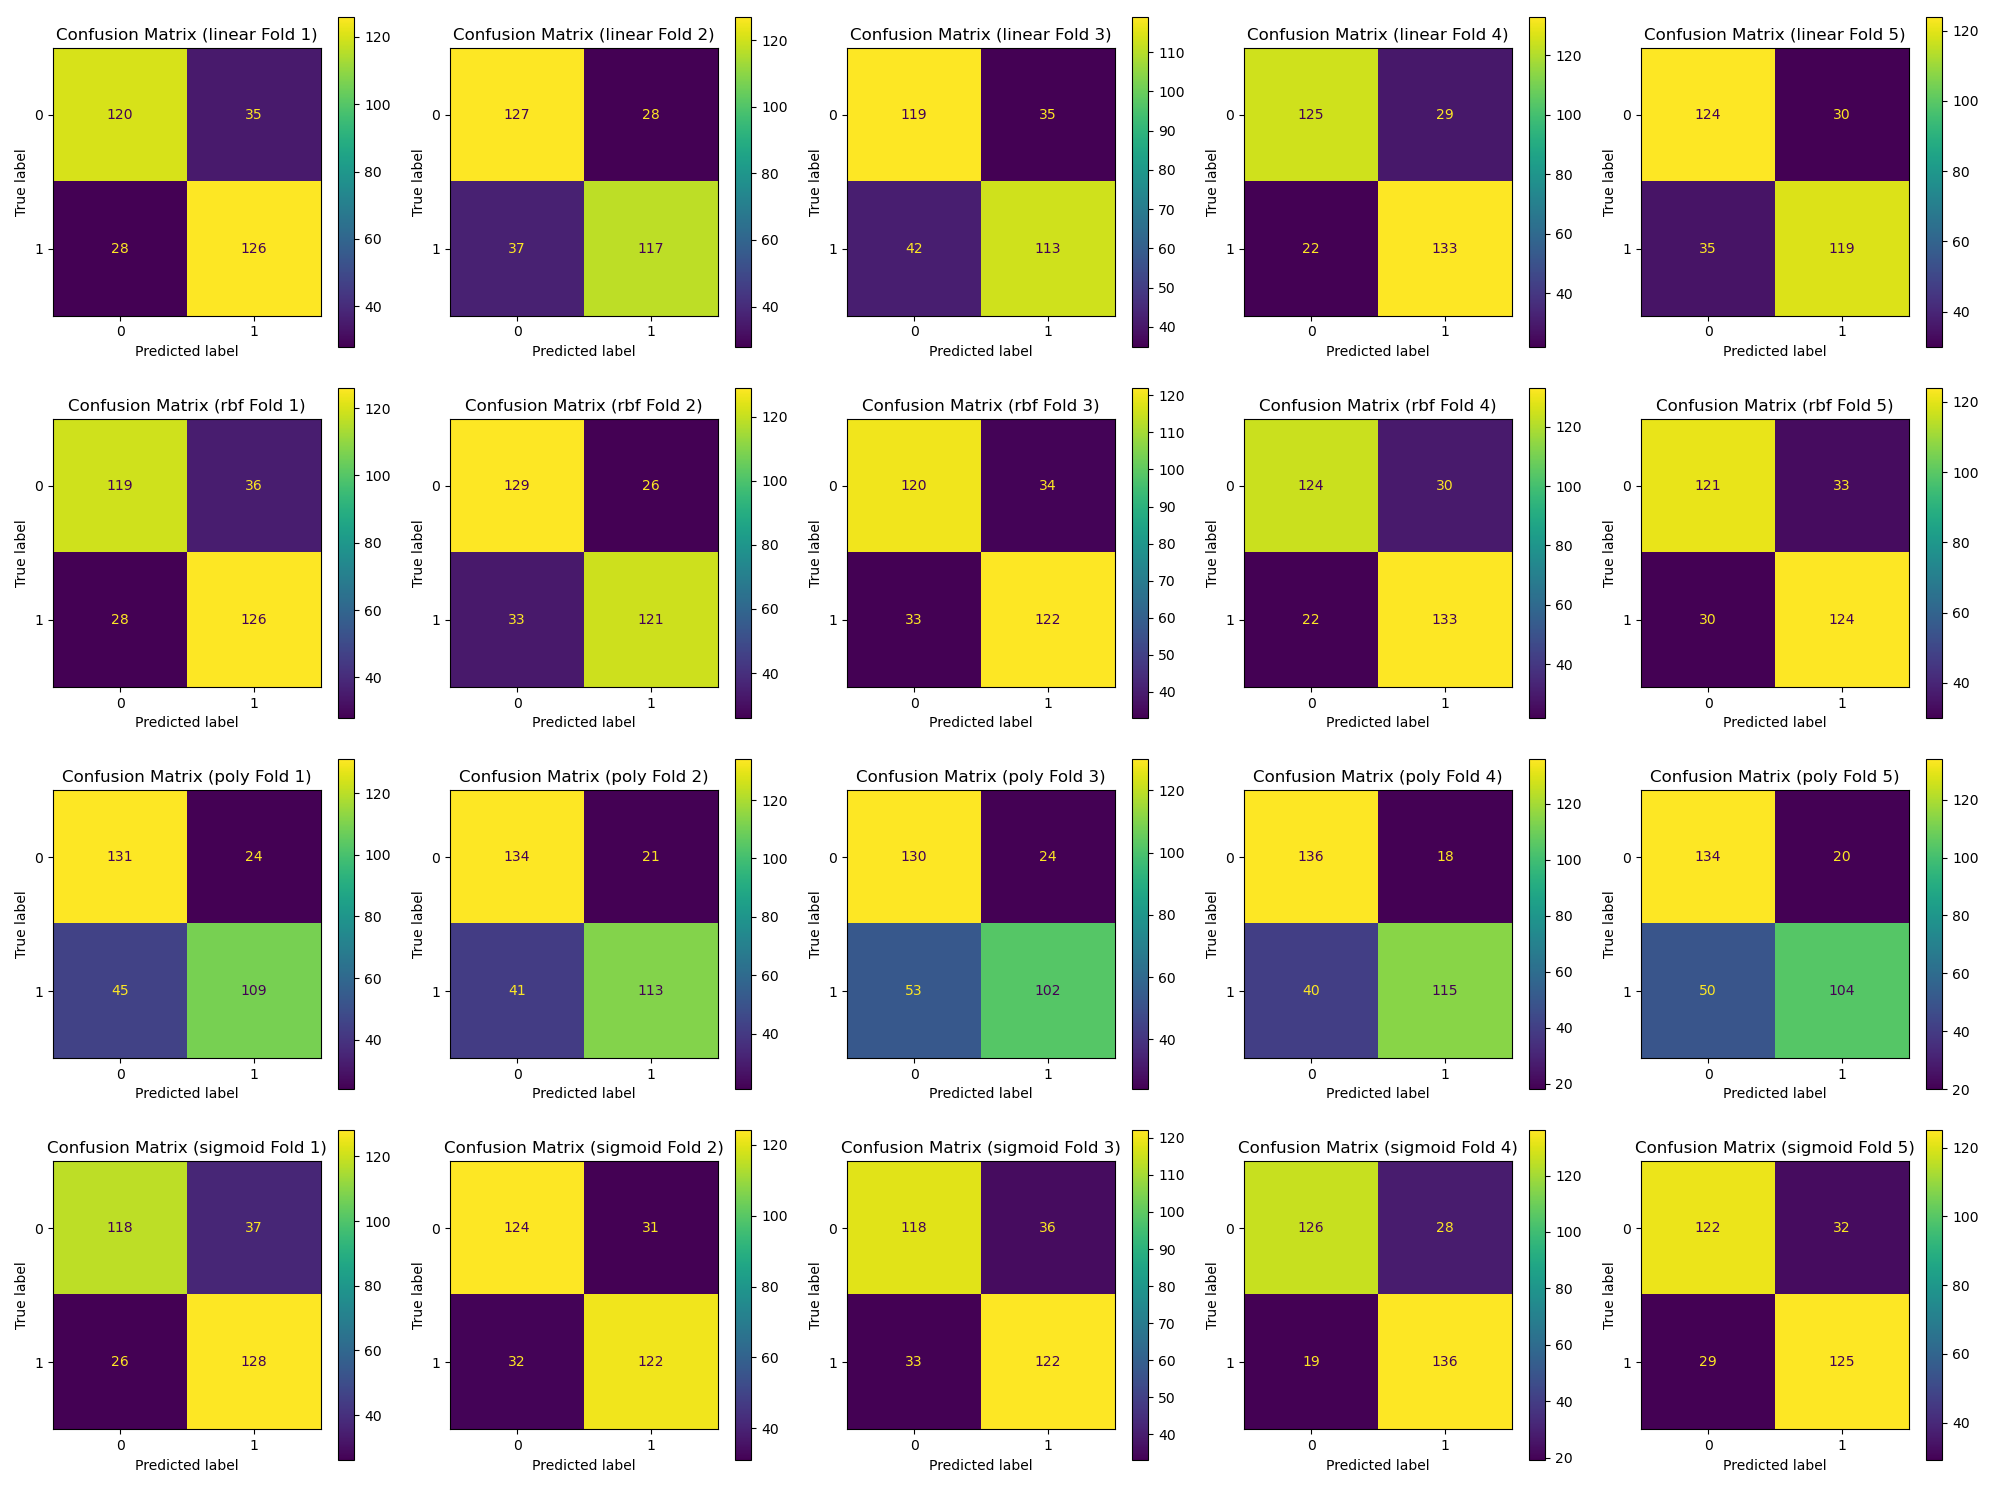
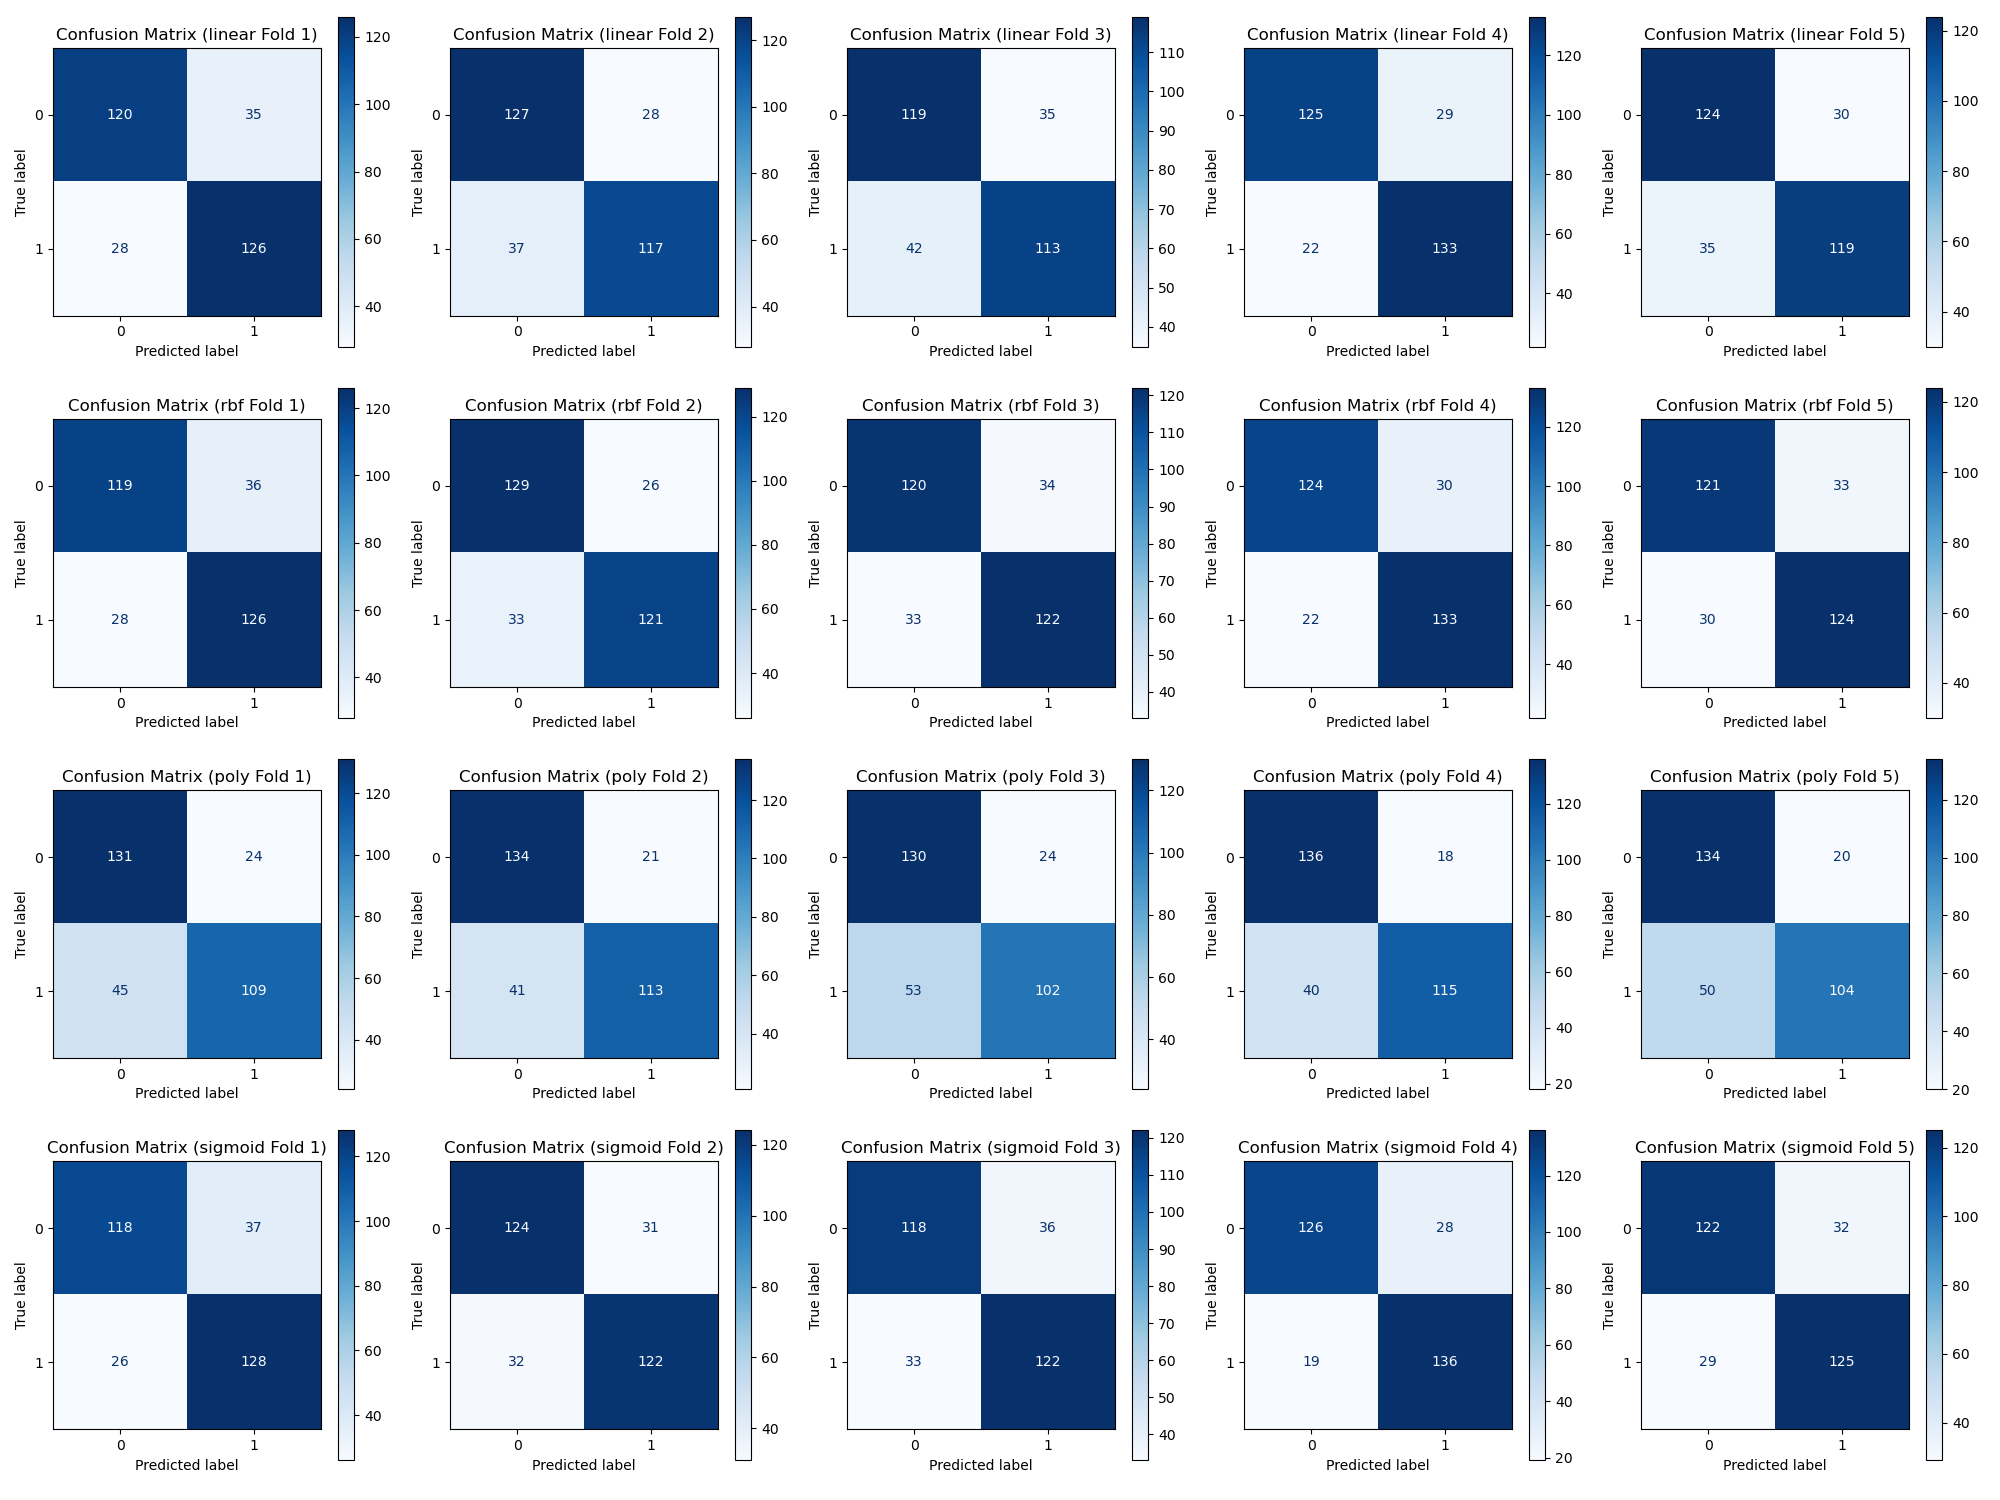
svm

diff --git a/SVM-Vic.py b/SVM-Vic.py
@@ -29,7 +29,9 @@ def eval(y, X, clf, ax_roc, ax_cm, legend_entry='my legendEntry'):
     ax_roc.legend(loc='best')
 
     # Plot confusion matrix
-    ConfusionMatrixDisplay.from_predictions(y, y_pred, ax=ax_cm)
+    cm = confusion_matrix(y, y_pred)
+    disp = ConfusionMatrixDisplay(confusion_matrix=cm)
+    disp.plot(ax=ax_cm, cmap='Blues')
     ax_cm.set_title(f'Confusion Matrix ({legend_entry})')
 
     return [accuracy, precision, recall, specificity, f1, roc_auc]
@@ -126,10 +128,20 @@ def svm_analysis(data, random_state=42):
     fig_cm.savefig('figures/confusion_matrices_svm.png')
     plt.show()
 
-    return performance
-#Do Gateway Drugs (Marjuhaha, Alcohol, Tobaco) correlate with future substance abuse disorder
-# Load and clean your dataset
+    # Determine the best kernel based on mean performance metrics across all folds
+    mean_performance = performance.drop(columns=['clf']).groupby('kernel').mean().reset_index()
+    best_kernel = mean_performance.loc[mean_performance['accuracy'].idxmax()]
 
+    print(f"Best Kernel: {best_kernel['kernel']}")
+    print(mean_performance)
+
+    return performance, best_kernel
+
+#Do Gateway Drugs (Marjuhaha, Alcohol, Tobaco) correlate with future substance abuse disorder
+
+
+
+# Load and clean dataset
 data = pd.read_csv('drug-use-health/data_new.csv', index_col=0)
 data = cleaning(data)
 data = rough_filtering(data)
@@ -146,5 +158,7 @@ for col in categorical:
         binary.append(col)
 binary.remove('UDPYIEM')
 
-performance = svm_analysis(data)
+performance, best_kernel = svm_analysis(data)
 print(performance)
+print(f"Best Kernel: {best_kernel['kernel']}")
+performance.to_csv('performance_SVM.csv', index=False)
